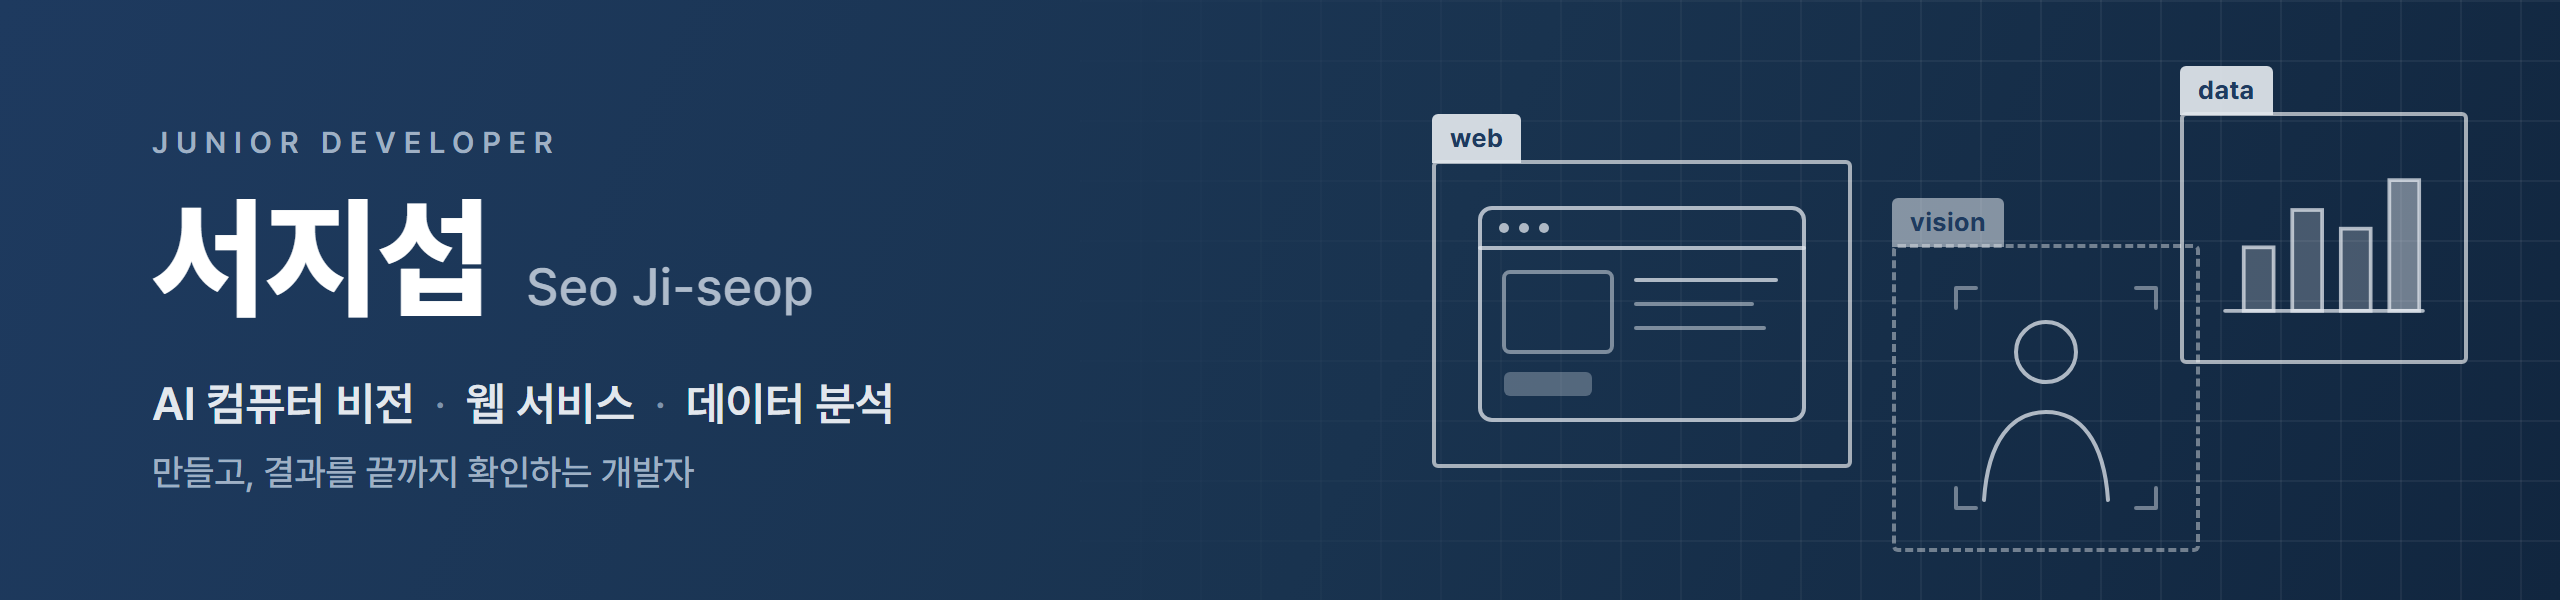
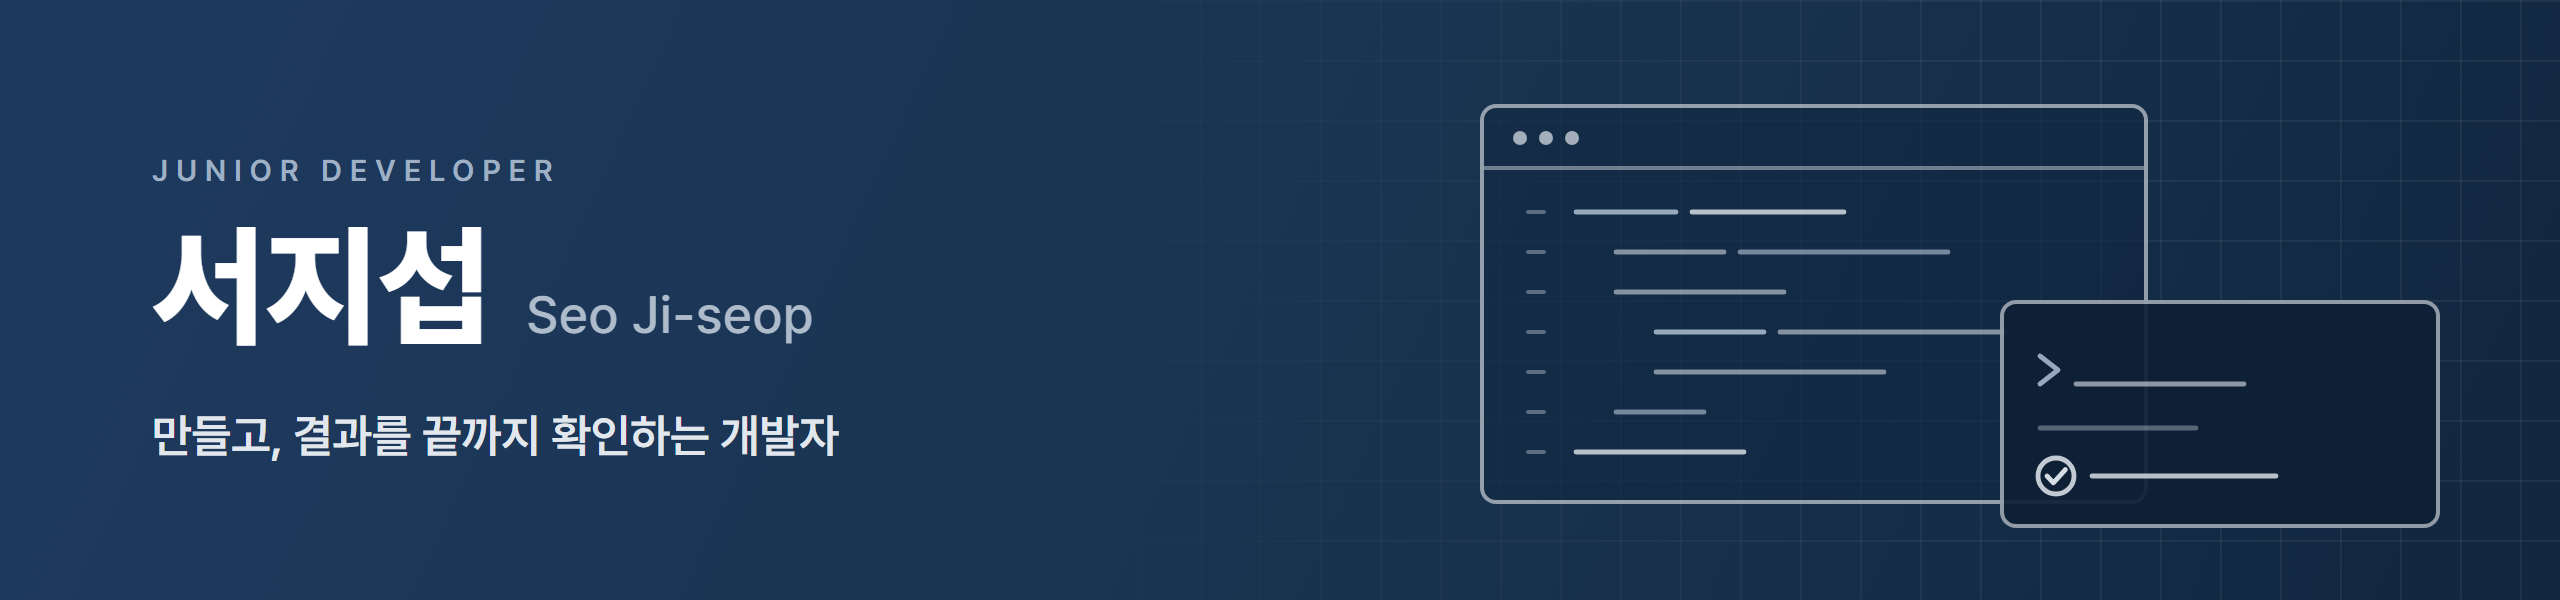
프로필에서 분야 문구(AI 컴퓨터 비전·웹 서비스·데이터 분석)와 분야별 표 삭제, 배너를 코드·실행 확인 그림으로 교체

diff --git a/README.md b/README.md
@@ -1,29 +1,9 @@
-<img src="images/header.png" width="100%" alt="서지섭 · AI 컴퓨터 비전 · 웹 서비스 · 데이터 분석">
+<img src="images/header.png" width="100%" alt="서지섭 · 만들고, 결과를 끝까지 확인하는 개발자">
 
 <p>
   <a href="mailto:seo941024@gmail.com"><img src="https://img.shields.io/badge/Email-1E3A5F?style=flat-square&logo=gmail&logoColor=white" alt="Email"></a>
   <a href="https://github.com/Jenny5789/CGI_MOA/blob/main/docs/%EC%9E%91%EC%97%85%EC%9D%BC%EC%A7%80_%EC%84%9C%EC%A7%80%EC%84%AD.md"><img src="https://img.shields.io/badge/MOA%20작업일지-5B6B7F?style=flat-square&logo=github&logoColor=white" alt="MOA 작업일지"></a>
 </p>
-
-AI 컴퓨터 비전·웹 서비스·데이터 분석을 직접 만들고, 예상과 다른 결과는 원인을 찾아 끝까지 확인하는 주니어 개발자.
-
-<table>
-<tr>
-<th width="33%">AI 컴퓨터 비전</th>
-<th width="33%">웹 서비스</th>
-<th width="33%">데이터 분석</th>
-</tr>
-<tr>
-<td valign="top">검출·인식·추적·합성 모델 적용, 실패 원인을 단계별로 좁혀 모델과 실행 환경 개선</td>
-<td valign="top">모델과 데이터를 화면·API로 연결, React·FastAPI·Flask 서비스 구현과 Docker 배포</td>
-<td valign="top">공공데이터·쇼핑몰 데이터 수집·정제, SQL 집계, Power BI·Streamlit 대시보드</td>
-</tr>
-<tr>
-<td><sub><a href="https://github.com/Jenny5789/CGI_MOA">MOA</a> · <a href="https://github.com/seo941024/LPR_System">LPR_System</a> · <a href="https://github.com/seo941024/Traffic-Sign-Classification">교통 표지판 분류</a></sub></td>
-<td><sub><a href="https://github.com/Jenny5789/CGI_MOA">MOA</a> · <a href="https://github.com/seo941024/Crawling">오카시에리</a> · <a href="https://github.com/seo941024/Web-PRG">펫케어</a></sub></td>
-<td><sub><a href="https://github.com/seo941024/DDarueng">공공자전거 대여소 진단</a> · <a href="https://github.com/seo941024/Crawling">오카시에리</a> · <a href="https://github.com/seo941024/LPR_System">LPR_System</a></sub></td>
-</tr>
-</table>
 
 ## 대표 프로젝트
 
@@ -163,7 +143,7 @@ AI 컴퓨터 비전·웹 서비스·데이터 분석을 직접 만들고, 예상
 | 분류 | 기술 |
 |---|---|
 | Languages | [Python](https://github.com/seo941024/Python) · [SQL](https://github.com/seo941024/DDarueng) · [Java](https://github.com/seo941024/Java) · [JavaScript](https://github.com/seo941024/Web-PRG) · [C++](https://github.com/seo941024/Cpp-CV) · [Dart](https://github.com/seo941024/DDarueng) · [HTML·CSS](https://github.com/seo941024/Web-PRG) |
-| AI·컴퓨터 비전 | [PyTorch](https://github.com/seo941024/Traffic-Sign-Classification) · [Keras](https://github.com/seo941024/Traffic-Sign-Classification) · [scikit-learn](https://github.com/seo941024/DeskPoseAI) · [XGBoost](https://github.com/seo941024/DeskPoseAI) · [YOLO](https://github.com/seo941024/LPR_System) · [OpenCV](https://github.com/seo941024/LPR_System) · [PaddleOCR](https://github.com/seo941024/LPR_System) · [EasyOCR](https://github.com/seo941024/ParkingSystem) · [DeepFace](https://github.com/seo941024/DeskPoseAI) · [Hugging Face](https://github.com/seo941024/PromptScene) · [SAM2·AnyDoor](https://github.com/Jenny5789/CGI_MOA) |
+| AI | [PyTorch](https://github.com/seo941024/Traffic-Sign-Classification) · [Keras](https://github.com/seo941024/Traffic-Sign-Classification) · [scikit-learn](https://github.com/seo941024/DeskPoseAI) · [XGBoost](https://github.com/seo941024/DeskPoseAI) · [YOLO](https://github.com/seo941024/LPR_System) · [OpenCV](https://github.com/seo941024/LPR_System) · [PaddleOCR](https://github.com/seo941024/LPR_System) · [EasyOCR](https://github.com/seo941024/ParkingSystem) · [DeepFace](https://github.com/seo941024/DeskPoseAI) · [Hugging Face](https://github.com/seo941024/PromptScene) · [SAM2·AnyDoor](https://github.com/Jenny5789/CGI_MOA) |
 | Backend | [FastAPI](https://github.com/Jenny5789/CGI_MOA) · [Flask](https://github.com/seo941024/Crawling) · [SQLAlchemy](https://github.com/Jenny5789/CGI_MOA) · [Node.js](https://github.com/seo941024/Web-PRG) · [Spring MVC](https://github.com/seo941024/Java) · [MyBatis](https://github.com/seo941024/Java) · [Servlet·JSP](https://github.com/seo941024/Java) |
 | Frontend·앱 | [React](https://github.com/Jenny5789/CGI_MOA) · [Vite](https://github.com/Jenny5789/CGI_MOA) · [Streamlit](https://github.com/seo941024/LPR_System) · [Flutter](https://github.com/seo941024/DDarueng) · [PyQt6](https://github.com/seo941024/LPR_System) · [Flet](https://github.com/seo941024/Python) · [MFC](https://github.com/seo941024/Cpp-CV) |
 | Data | [pandas](https://github.com/seo941024/DDarueng) · [NumPy](https://github.com/seo941024/Traffic-Sign-Classification) · [Matplotlib](https://github.com/seo941024/Traffic-Sign-Classification) · [Plotly](https://github.com/seo941024/LPR_System) · [Power BI](https://github.com/seo941024/DDarueng) · [Selenium](https://github.com/seo941024/Crawling) · [BeautifulSoup](https://github.com/seo941024/Crawling) |
